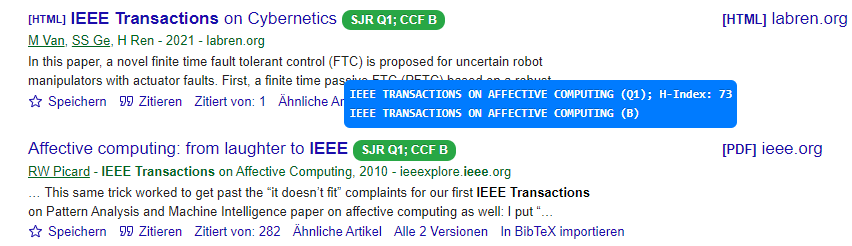
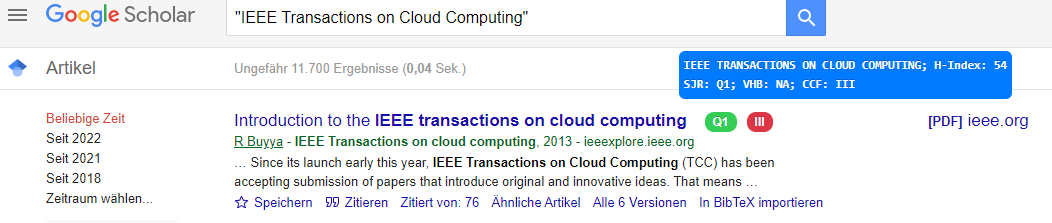
v2.0.1

diff --git a/README.md b/README.md
@@ -1,5 +1,5 @@
 <h1 align="center"><img src="./icon/32x32.png" height="21px" alt=""> RapidJournalQualCheck </h1> 
-<h3 align="center"> Rapid Quality Check for Academic Journals in Google Scholar Search Results based on SJR and CCF </h3>
+<h3 align="center"> Rapid Quality Check for Academic Journals in Google Scholar Search Results based on SJR, VHB, and CCF </h3>
 </br>
 <p align="center">
     <a href="https://github.com/JuRaKlWi/RapidJournalQualCheck">
@@ -12,10 +12,49 @@
 </p> Based on and adapted from CCFrank by WenyanLiu: https://github.com/WenyanLiu/CCFrank4dblp
 </br> Using the public Crossref API: https://api.crossref.org/swagger-ui/index.html
 </br> Using SCImago Journal & Country Rank (retrieved July 20th, 2022): http://www.scimagojr.com
+</br> Using VHB-JOURQUAL ranking: https://vhbonline.org/en/vhb4you/vhb-jourqual/vhb-jourqual-3
 </br> Using China Computer Federation (CCF) ranking: https://www.ccf.org.cn/en/Bulletin/2019-05-13/663884.shtml
 </br> Icons from Flaticon.com: https://www.flaticon.com/free-icons/research
 
 ## Preview
+
+<div class="gallery" style="margin: 5px; border: 1px solid #ccc; float: left; width: 	20%;">
+  <a target="_blank" href="SJR_VHB.png">
+    <img src="SJR_VHB.png" alt="SJR_VHB" height="auto" width="100%" 
+    onmouseover= "this.style.width='200%';this.style.height='auto';this.style.zIndex='10';this.style.position='relative';" 
+    onmouseout="this.style.width='100%';this.style.height='auto';this.style.zIndex='1';this.style.position='relative';">
+  </a>
+  <div class="desc" padding="15px">Journal rankings are directly added to Google Search results</div>
+</div>
+
+<div class="gallery" style="margin: 5px; border: 1px solid #ccc; float: left; width: 20%;">
+  <a target="_blank" href="SJR_and_CCF.png">
+    <img src="SJR_and_CCF.png" alt="SJR_and_CCF" width="100%" height="auto"
+    onmouseover= "this.style.width='200%';this.style.height='auto';this.style.zIndex='10';this.style.position='relative';" 
+    onmouseout="this.style.width='100%';this.style.height='auto';this.style.zIndex='1';this.style.position='relative';">
+  </a>
+  <div class="desc" padding="15px">Rankings currently include SJR, VHB, and CCF. Please check the links above for more information on each ranking. The colors also indicate quality from green (higher quality) to red (lower quality).</div>
+</div>
+
+<div class="gallery" style="margin: 5px; border: 1px solid #ccc; float: left; width: 20%;">
+	<a target="_blank" href="SJR_VHB_with mouseover.png">
+    <img src="SJR_VHB_with mouseover.png" alt="SJR_VHB_with mouseover" width="100%" height="auto"
+    onmouseover= "this.style.width='200%';this.style.height='auto';this.style.zIndex='10';this.style.position='relative';" 
+    onmouseout="this.style.width='100%';this.style.height='auto';this.style.zIndex='1';this.style.position='relative';">
+
+  </a>
+  <div class="desc" padding="15px">Hovering with your cursor over the ranking scores gives you additional information such as the journals h-index and the name of the journal that was identified based on the input from Google Scholar.</div>
+</div>
+
+<div class="gallery" style="margin: 5px; border: 1px solid #ccc; float: left; width: 20%;">
+  <a target="_blank" href="doi_link.png">
+    <img src="doi_link.png" alt="doi_link" width="100%" height="auto"
+    onmouseover= "this.style.width='200%';this.style.height='auto';this.style.zIndex='10';this.style.position='relative';" 
+    onmouseout="this.style.width='100%';this.style.height='auto';this.style.zIndex='1';this.style.position='relative';">
+  </a>
+  <div class="desc" padding="15px">Clicking on the ranking scores takes you to the identified work via its DOI. This along with the identified journal name helps you to check, whether indeed the correct journal was identified based on the Google Scholar input.</div>
+</div>
+
 
 SJR quality scores with checked journal title and h-index mouseover 
 ![SJR Score](./img/SJR.PNG)
@@ -49,17 +88,21 @@ OR
 
 ## What's New
 
-**Version 1.0.2**
+**Version 2.0.1**
 
-> tbd
+> Significantly improved layout and performance. Results are displayed more rapidly and concisely now. 
+> VHB ranking was added for a more fine-grained evaluation of sources. 
+> Clicking on an individual ranking score now takes you to the work via doi.org that crossref identified based on the input from Google Scholar. Along with the reported journal in the mouseover infobox, this allows you to check, whether crossref identified the correct journal/work. In addition, it may help you find a similar work by the same author(s) published in a "more proper" outlet. 
+
 
 ## Contributors ✨
 
-This package is heavily based on CCFrank by WenyanLiu: https://github.com/WenyanLiu/CCFrank4dblp
+This package is based on CCFrank by WenyanLiu: https://github.com/WenyanLiu/CCFrank4dblp
 Thanks goes to her and her contributors: https://github.com/WenyanLiu/CCFrank4dblp#contributors-
 
 </p> Using the public Crossref API: https://api.crossref.org/swagger-ui/index.html
 </p> Using SCImago Journal & Country Rank (retrieved July 20th, 2022): http://www.scimagojr.com
+</br> Using VHB-JOURQUAL3 ranking: https://vhbonline.org/en/vhb4you/vhb-jourqual/vhb-jourqual-3
 </p> Using China Computer Federation (CCF) ranking: https://www.ccf.org.cn/en/Bulletin/2019-05-13/663884.shtml
 </p> Icons from Flaticon.com: https://www.flaticon.com/free-icons/research
 
